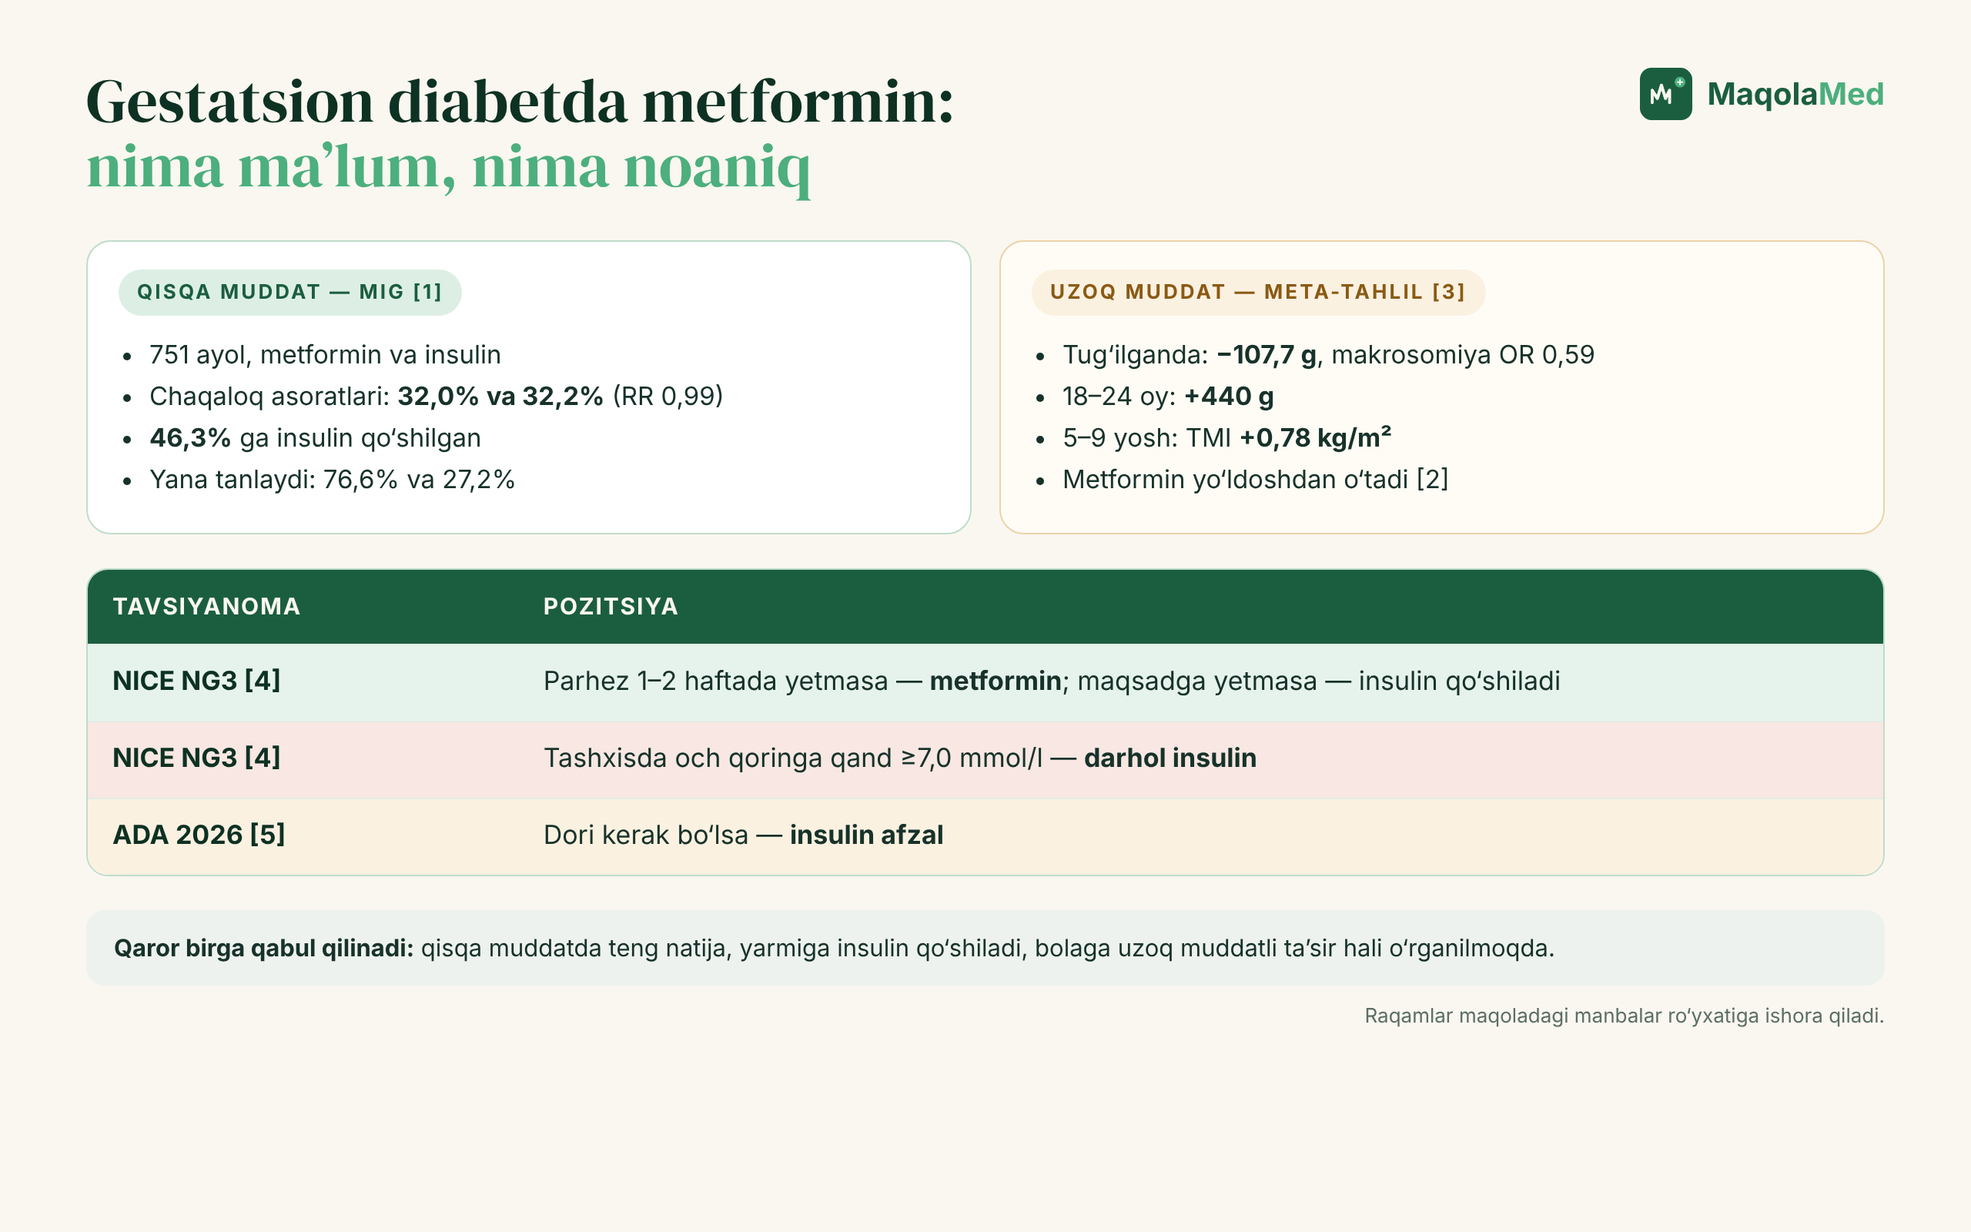
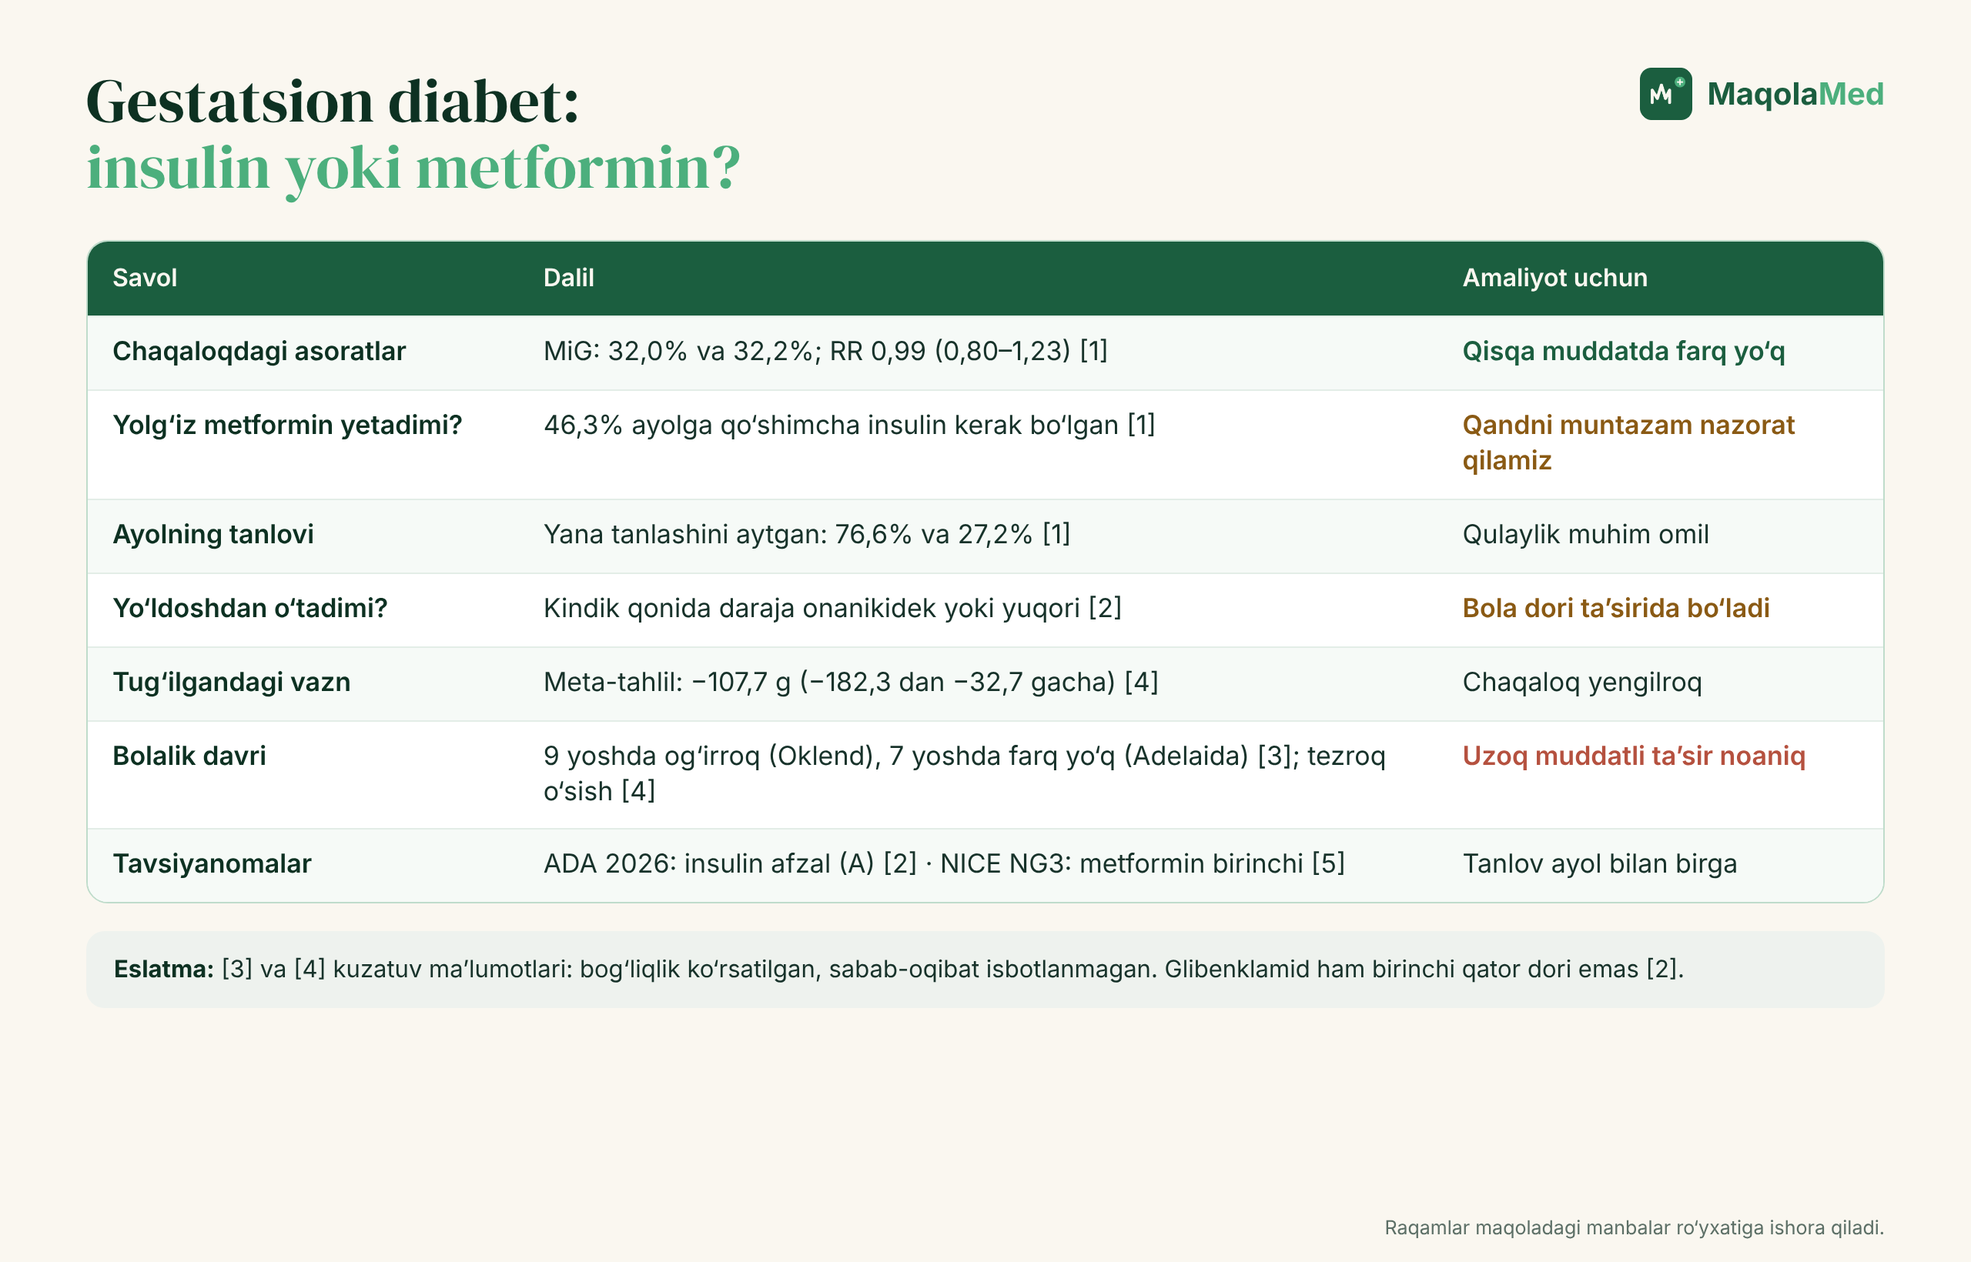
29-noyabr maqolasi qayta yozildi (v2, humanizer): gestatsion diabetda metformin — muqovalar, 1 rasm

diff --git a/_manba/2026-11-29/muqova-instagram-4x5.html b/_manba/2026-11-29/muqova-instagram-4x5.html
@@ -1,0 +1,84 @@
+<!doctype html>
+<html lang="uz">
+<head>
+<meta charset="utf-8"><base href="file:///home/claude/maqolamed-rasmlar/_shablon/">
+<style>
+@font-face{font-family:"DM Serif Display";src:url("fonts/dm-serif-display-latin-400-normal.woff2") format("woff2");}
+@font-face{font-family:"DM Serif Display";src:url("fonts/dm-serif-display-latin-ext-400-normal.woff2") format("woff2");unicode-range:U+0100-024F,U+1E00-1EFF;}
+:root{
+  --emerald:#1B5E3F; --deep:#0D3122; --cream:#FAF7F0; --mint:#7FC9A0; --green:#4CAF7D;
+}
+*{margin:0;padding:0;box-sizing:border-box}
+html,body{width:1280px;height:720px;overflow:hidden;background:var(--deep)}
+.cover{position:relative;width:1280px;height:720px;overflow:hidden;font-family:"Inter",sans-serif;color:var(--cream);
+  background:
+    radial-gradient(900px 600px at 78% 40%, rgba(76,175,125,.22), transparent 60%),
+    radial-gradient(700px 500px at 0% 100%, rgba(13,49,34,.9), transparent 70%),
+    linear-gradient(135deg,#123F2C 0%, #1B5E3F 55%, #164D34 100%);}
+.grid{position:absolute;inset:0;background-image:
+    linear-gradient(rgba(250,247,240,.035) 1px,transparent 1px),
+    linear-gradient(90deg,rgba(250,247,240,.035) 1px,transparent 1px);
+  background-size:40px 40px;}
+.ekg{position:absolute;left:0;top:300px;width:1280px;height:200px;opacity:.16}
+.left{position:absolute;left:64px;top:52px;width:690px}
+.brand{display:flex;align-items:center;gap:28px}
+.brand img{height:62px;display:block}
+.tag{display:flex;align-items:center;gap:14px;font-size:13px;letter-spacing:.32em;color:rgba(250,247,240,.72);font-weight:500}
+.tag i{width:4px;height:4px;border-radius:50%;background:var(--mint);display:inline-block}
+.tag .line{width:90px;height:1px;background:rgba(250,247,240,.35)}
+.kicker{margin-top:54px;display:inline-flex;align-items:center;gap:10px;font-size:15px;font-weight:600;letter-spacing:.14em;text-transform:uppercase;color:var(--mint)}
+.kicker span{display:inline-block;width:28px;height:2px;background:var(--mint)}
+h1{margin-top:16px;font-family:"DM Serif Display",serif;font-weight:400;font-size:78px;line-height:.98;letter-spacing:-.01em;color:var(--cream)}
+h1 em{font-style:normal;color:var(--mint)}
+.sub{margin-top:22px;font-size:21px;color:rgba(250,247,240,.82);font-weight:400}
+.points{position:absolute;left:64px;bottom:50px;display:flex;gap:0}
+.pt{width:172px;padding-right:18px;display:flex;flex-direction:column;align-items:flex-start;gap:12px}
+.pt + .pt{padding-left:22px;border-left:1px solid rgba(250,247,240,.18)}
+.ic{width:52px;height:52px;border-radius:50%;border:1.6px solid rgba(250,247,240,.75);display:grid;place-items:center}
+.ic svg{width:26px;height:26px;stroke:var(--cream);fill:none;stroke-width:1.7;stroke-linecap:round;stroke-linejoin:round}
+.pt p{font-size:15px;line-height:1.3;color:rgba(250,247,240,.92);font-weight:500}
+.card{position:absolute;right:56px;top:96px;width:400px;border-radius:22px;padding:28px 30px 26px;
+  background:linear-gradient(160deg,rgba(13,49,34,.82),rgba(13,49,34,.62));
+  border:1px solid rgba(127,201,160,.35);box-shadow:0 30px 60px rgba(0,0,0,.35)}
+.card .ch{display:flex;justify-content:space-between;align-items:center}
+.card .lbl{font-size:12px;letter-spacing:.24em;font-weight:600;color:var(--mint)}
+.card .pill{font-size:12px;font-weight:600;padding:5px 10px;border-radius:999px;background:rgba(127,201,160,.16);color:var(--mint)}
+.card h3{margin-top:14px;font-size:22px;font-weight:600}
+.card h3 small{display:block;margin-top:4px;font-size:14px;font-weight:400;color:rgba(250,247,240,.65)}
+.rows{margin-top:18px;border-top:1px solid rgba(250,247,240,.14)}
+.row{display:flex;justify-content:space-between;padding:9px 0;border-bottom:1px solid rgba(250,247,240,.10);font-size:16px}
+.row span:first-child{color:rgba(250,247,240,.68)}
+.row span:last-child{font-weight:600;font-variant-numeric:tabular-nums}
+.row .ok{color:var(--mint)}
+.quote{margin-top:18px;font-family:"DM Serif Display",serif;font-size:21px;line-height:1.25;color:var(--cream)}
+.ask{margin-top:16px;display:flex;align-items:center;justify-content:space-between;padding:13px 16px;border-radius:12px;background:var(--green);color:#0D3122;font-weight:700;font-size:17px}
+.ask svg{width:22px;height:22px;stroke:#0D3122;fill:none;stroke-width:2.2;stroke-linecap:round;stroke-linejoin:round}
+
+html,body{width:1080px;height:1350px}
+.cover{width:1080px;height:1350px}
+.ekg{top:525px;width:1080px}
+.left{left:72px;top:64px;width:940px}
+.brand img{height:72px}
+h1{font-size:96px;margin-top:18px}
+.kicker{margin-top:56px;font-size:17px}
+.sub{font-size:24px}
+.card{left:72px;right:72px;top:auto;bottom:250px;width:auto;padding:30px 34px}
+.rows{display:grid;grid-template-columns:1fr 1fr;column-gap:40px}
+.quote{font-size:24px}
+.points{left:72px;right:72px;bottom:60px}
+.pt{width:auto;flex:1}
+.pt p{font-size:17px}
+
+</style>
+</head>
+<body><div class="cover"><div class="grid"></div>
+<svg class="ekg" viewBox="0 0 1280 200" preserveAspectRatio="none"><polyline fill="none" stroke="#7FC9A0" stroke-width="3" stroke-linejoin="round" stroke-linecap="round" points="0,120 640,120 670,120 690,98 710,120 750,120 770,40 795,175 820,120 880,120 905,102 930,120 1280,120"/></svg>
+<div class="left"><div class="brand"><img src="logo_dark_bg.png" alt="MaqolaMed"></div>
+<div class="tag" style="margin-top:22px"><span>ILM</span><i></i><span>AMALIYOT</span><i></i><span>ODAM UCHUN</span><span class="line"></span></div>
+<div class="kicker"><span></span>Klinik savol · Akusherlik-ginekologiya</div>
+<h1>Gestatsion diabet:<br>metformin<br><em>xavfsizmi?</em></h1>
+<div class="sub">Tabletka yoki insulin: qisqa va uzoq muddatli dalillar.</div></div>
+<div class="points"><div class="pt"><div class="ic"><svg viewBox="0 0 24 24"><circle cx="12" cy="8" r="4"/><path d="M5 21c0-4 3-7 7-7s7 3 7 7"/></svg></div><p>Chaqaloq uchun xavfsizmi?</p></div><div class="pt"><div class="ic"><svg viewBox="0 0 24 24"><rect x="3" y="8.5" width="18" height="7" rx="3.5" transform="rotate(-40 12 12)"/><path d="M9.3 9.3l5.4 5.4"/></svg></div><p>Metformin yolg‘iz yetadimi?</p></div><div class="pt"><div class="ic"><svg viewBox="0 0 24 24"><path d="M4 20V4"/><path d="M4 20h16"/><path d="M8 16l4-5 3 3 5-7"/></svg></div><p>Bola keyin qanday o‘sadi?</p></div><div class="pt"><div class="ic"><svg viewBox="0 0 24 24"><circle cx="12" cy="12" r="9"/><path d="M9.5 9.5a2.5 2.5 0 1 1 3.5 2.3c-.7.3-1 .8-1 1.5v.7"/><path d="M12 17v.5"/></svg></div><p>Tavsiyanomalar nega har xil?</p></div></div>
+<div class="card"><div class="ch"><span class="lbl">DALIL</span><span class="pill">MiG va ADA 2026</span></div>
+<h3>Metformin va insulin<small>Gestatsion diabetda</small></h3><div class="rows"><div class="row"><span>Chaqaloq asoratlari</span><span class="ok">32,0% va 32,2%</span></div><div class="row"><span>Qo‘shimcha insulin kerak</span><span class="">46,3%</span></div><div class="row"><span>Yo‘ldoshdan o‘tadi</span><span class="">ha</span></div><div class="row"><span>Bolalikdagi vazn</span><span class="">noaniq</span></div><div class="row"><span>ADA 2026</span><span class="ok">insulin afzal</span></div><div class="row"><span>NICE NG3</span><span class="">metformin birinchi</span></div></div><div class="quote">«Ukol qilolmayman, tabletka yozing»</div><div class="ask">Nima deysiz?<svg viewBox="0 0 24 24"><path d="M5 12h14"/><path d="M13 6l6 6-6 6"/></svg></div></div>
+</div></body></html>

diff --git a/_manba/2026-11-29/muqova-16x9.html b/_manba/2026-11-29/muqova-16x9.html
@@ -1,0 +1,69 @@
+<!doctype html>
+<html lang="uz">
+<head>
+<meta charset="utf-8"><base href="file:///home/claude/maqolamed-rasmlar/_shablon/">
+<style>
+@font-face{font-family:"DM Serif Display";src:url("fonts/dm-serif-display-latin-400-normal.woff2") format("woff2");}
+@font-face{font-family:"DM Serif Display";src:url("fonts/dm-serif-display-latin-ext-400-normal.woff2") format("woff2");unicode-range:U+0100-024F,U+1E00-1EFF;}
+:root{
+  --emerald:#1B5E3F; --deep:#0D3122; --cream:#FAF7F0; --mint:#7FC9A0; --green:#4CAF7D;
+}
+*{margin:0;padding:0;box-sizing:border-box}
+html,body{width:1280px;height:720px;overflow:hidden;background:var(--deep)}
+.cover{position:relative;width:1280px;height:720px;overflow:hidden;font-family:"Inter",sans-serif;color:var(--cream);
+  background:
+    radial-gradient(900px 600px at 78% 40%, rgba(76,175,125,.22), transparent 60%),
+    radial-gradient(700px 500px at 0% 100%, rgba(13,49,34,.9), transparent 70%),
+    linear-gradient(135deg,#123F2C 0%, #1B5E3F 55%, #164D34 100%);}
+.grid{position:absolute;inset:0;background-image:
+    linear-gradient(rgba(250,247,240,.035) 1px,transparent 1px),
+    linear-gradient(90deg,rgba(250,247,240,.035) 1px,transparent 1px);
+  background-size:40px 40px;}
+.ekg{position:absolute;left:0;top:300px;width:1280px;height:200px;opacity:.16}
+.left{position:absolute;left:64px;top:52px;width:690px}
+.brand{display:flex;align-items:center;gap:28px}
+.brand img{height:62px;display:block}
+.tag{display:flex;align-items:center;gap:14px;font-size:13px;letter-spacing:.32em;color:rgba(250,247,240,.72);font-weight:500}
+.tag i{width:4px;height:4px;border-radius:50%;background:var(--mint);display:inline-block}
+.tag .line{width:90px;height:1px;background:rgba(250,247,240,.35)}
+.kicker{margin-top:54px;display:inline-flex;align-items:center;gap:10px;font-size:15px;font-weight:600;letter-spacing:.14em;text-transform:uppercase;color:var(--mint)}
+.kicker span{display:inline-block;width:28px;height:2px;background:var(--mint)}
+h1{margin-top:16px;font-family:"DM Serif Display",serif;font-weight:400;font-size:78px;line-height:.98;letter-spacing:-.01em;color:var(--cream)}
+h1 em{font-style:normal;color:var(--mint)}
+.sub{margin-top:22px;font-size:21px;color:rgba(250,247,240,.82);font-weight:400}
+.points{position:absolute;left:64px;bottom:50px;display:flex;gap:0}
+.pt{width:172px;padding-right:18px;display:flex;flex-direction:column;align-items:flex-start;gap:12px}
+.pt + .pt{padding-left:22px;border-left:1px solid rgba(250,247,240,.18)}
+.ic{width:52px;height:52px;border-radius:50%;border:1.6px solid rgba(250,247,240,.75);display:grid;place-items:center}
+.ic svg{width:26px;height:26px;stroke:var(--cream);fill:none;stroke-width:1.7;stroke-linecap:round;stroke-linejoin:round}
+.pt p{font-size:15px;line-height:1.3;color:rgba(250,247,240,.92);font-weight:500}
+.card{position:absolute;right:56px;top:96px;width:400px;border-radius:22px;padding:28px 30px 26px;
+  background:linear-gradient(160deg,rgba(13,49,34,.82),rgba(13,49,34,.62));
+  border:1px solid rgba(127,201,160,.35);box-shadow:0 30px 60px rgba(0,0,0,.35)}
+.card .ch{display:flex;justify-content:space-between;align-items:center}
+.card .lbl{font-size:12px;letter-spacing:.24em;font-weight:600;color:var(--mint)}
+.card .pill{font-size:12px;font-weight:600;padding:5px 10px;border-radius:999px;background:rgba(127,201,160,.16);color:var(--mint)}
+.card h3{margin-top:14px;font-size:22px;font-weight:600}
+.card h3 small{display:block;margin-top:4px;font-size:14px;font-weight:400;color:rgba(250,247,240,.65)}
+.rows{margin-top:18px;border-top:1px solid rgba(250,247,240,.14)}
+.row{display:flex;justify-content:space-between;padding:9px 0;border-bottom:1px solid rgba(250,247,240,.10);font-size:16px}
+.row span:first-child{color:rgba(250,247,240,.68)}
+.row span:last-child{font-weight:600;font-variant-numeric:tabular-nums}
+.row .ok{color:var(--mint)}
+.quote{margin-top:18px;font-family:"DM Serif Display",serif;font-size:21px;line-height:1.25;color:var(--cream)}
+.ask{margin-top:16px;display:flex;align-items:center;justify-content:space-between;padding:13px 16px;border-radius:12px;background:var(--green);color:#0D3122;font-weight:700;font-size:17px}
+.ask svg{width:22px;height:22px;stroke:#0D3122;fill:none;stroke-width:2.2;stroke-linecap:round;stroke-linejoin:round}
+
+</style>
+</head>
+<body><div class="cover"><div class="grid"></div>
+<svg class="ekg" viewBox="0 0 1280 200" preserveAspectRatio="none"><polyline fill="none" stroke="#7FC9A0" stroke-width="3" stroke-linejoin="round" stroke-linecap="round" points="0,120 640,120 670,120 690,98 710,120 750,120 770,40 795,175 820,120 880,120 905,102 930,120 1280,120"/></svg>
+<div class="left"><div class="brand"><img src="logo_dark_bg.png" alt="MaqolaMed"></div>
+<div class="tag" style="margin-top:22px"><span>ILM</span><i></i><span>AMALIYOT</span><i></i><span>ODAM UCHUN</span><span class="line"></span></div>
+<div class="kicker"><span></span>Klinik savol · Akusherlik-ginekologiya</div>
+<h1>Gestatsion diabet:<br>metformin<br><em>xavfsizmi?</em></h1>
+<div class="sub">Tabletka yoki insulin: qisqa va uzoq muddatli dalillar.</div></div>
+<div class="points"><div class="pt"><div class="ic"><svg viewBox="0 0 24 24"><circle cx="12" cy="8" r="4"/><path d="M5 21c0-4 3-7 7-7s7 3 7 7"/></svg></div><p>Chaqaloq uchun xavfsizmi?</p></div><div class="pt"><div class="ic"><svg viewBox="0 0 24 24"><rect x="3" y="8.5" width="18" height="7" rx="3.5" transform="rotate(-40 12 12)"/><path d="M9.3 9.3l5.4 5.4"/></svg></div><p>Metformin yolg‘iz yetadimi?</p></div><div class="pt"><div class="ic"><svg viewBox="0 0 24 24"><path d="M4 20V4"/><path d="M4 20h16"/><path d="M8 16l4-5 3 3 5-7"/></svg></div><p>Bola keyin qanday o‘sadi?</p></div><div class="pt"><div class="ic"><svg viewBox="0 0 24 24"><circle cx="12" cy="12" r="9"/><path d="M9.5 9.5a2.5 2.5 0 1 1 3.5 2.3c-.7.3-1 .8-1 1.5v.7"/><path d="M12 17v.5"/></svg></div><p>Tavsiyanomalar nega har xil?</p></div></div>
+<div class="card"><div class="ch"><span class="lbl">DALIL</span><span class="pill">MiG va ADA 2026</span></div>
+<h3>Metformin va insulin<small>Gestatsion diabetda</small></h3><div class="rows"><div class="row"><span>Chaqaloq asoratlari</span><span class="ok">32,0% va 32,2%</span></div><div class="row"><span>Qo‘shimcha insulin kerak</span><span class="">46,3%</span></div><div class="row"><span>Yo‘ldoshdan o‘tadi</span><span class="">ha</span></div><div class="row"><span>Bolalikdagi vazn</span><span class="">noaniq</span></div><div class="row"><span>ADA 2026</span><span class="ok">insulin afzal</span></div><div class="row"><span>NICE NG3</span><span class="">metformin birinchi</span></div></div><div class="quote">«Ukol qilolmayman, tabletka yozing»</div><div class="ask">Nima deysiz?<svg viewBox="0 0 24 24"><path d="M5 12h14"/><path d="M13 6l6 6-6 6"/></svg></div></div>
+</div></body></html>

diff --git a/_manba/2026-11-29/1-rasm.html b/_manba/2026-11-29/1-rasm.html
@@ -1,0 +1,48 @@
+<!doctype html><html lang="uz"><head><meta charset="utf-8"><base href="file:///home/claude/maqolamed-rasmlar/_shablon/"><style>
+@font-face{font-family:"DM Serif Display";src:url("fonts/dm-serif-display-latin-400-normal.woff2") format("woff2");}
+@font-face{font-family:"DM Serif Display";src:url("fonts/dm-serif-display-latin-ext-400-normal.woff2") format("woff2");unicode-range:U+0100-024F,U+1E00-1EFF;}
+:root{--emerald:#1B5E3F;--deep:#0D3122;--cream:#FAF7F0;--mint:#7FC9A0;--green:#4CAF7D;--ink:#17322A;--muted:#5C6F66;--amber:#C98A2E;--amberbg:#FBF1E1;--red:#B5513F;--redbg:#F8E7E2}
+*{margin:0;padding:0;box-sizing:border-box}
+html,body{width:1280px;height:820px;background:var(--cream);overflow:hidden}
+.fig{position:relative;width:1280px;height:820px;padding:44px 56px;font-family:"Inter",sans-serif;color:var(--ink)}
+.top{display:flex;justify-content:space-between;align-items:flex-start;margin-bottom:26px}
+h1{font-family:"DM Serif Display",serif;font-weight:400;font-size:40px;line-height:1.08;color:var(--deep)}
+h1 em{font-style:normal;color:var(--green)}
+.brand{display:flex;align-items:center;gap:10px;font-weight:700;font-size:20px;color:var(--emerald);white-space:nowrap}
+.brand img{height:34px}.brand b{color:var(--green);font-weight:700}
+table{width:100%;border-collapse:separate;border-spacing:0;font-size:17px;line-height:1.35;background:#fff;border-radius:14px;overflow:hidden;border:1.5px solid #BFDCCB}
+th{background:var(--emerald);color:var(--cream);text-align:left;padding:13px 16px;font-size:16px;font-weight:600}
+td{padding:12px 16px;border-top:1px solid #E3EDE7;vertical-align:top}
+td:first-child{font-weight:600;color:var(--deep);width:24%}
+tr:nth-child(even) td{background:#F6FAF7}
+.good{color:var(--emerald);font-weight:600}.bad{color:var(--red);font-weight:600}.mid{color:#8A5A14;font-weight:600}
+.row3{display:flex;gap:20px}
+.box{flex:1;border-radius:14px;padding:16px 18px;font-size:16px;line-height:1.42;background:#fff;border:1.5px solid #BFDCCB}
+.box b.t{display:block;font-size:18px;margin-bottom:6px;color:var(--deep)}
+.box.g{border-color:#BFDCCB}.box.a{border-color:#EBD3A9;background:#FFFDF8}.box.r{border-color:#E8C3BA;background:#FFFBFA}
+.box.dark{background:var(--emerald);color:var(--cream);border:none}.box.dark b.t{color:var(--cream)}
+.step{display:flex;gap:16px;align-items:flex-start;background:#fff;border:1.5px solid #BFDCCB;border-radius:14px;padding:14px 18px;margin-bottom:12px;font-size:16.5px;line-height:1.42}
+.num{flex:none;width:40px;height:40px;border-radius:50%;background:var(--emerald);color:var(--cream);display:grid;place-items:center;font-weight:700;font-size:19px}
+.step b.t{display:block;font-size:18px;color:var(--deep);margin-bottom:3px}
+.tag{display:inline-block;font-size:12.5px;font-weight:700;letter-spacing:.1em;text-transform:uppercase;padding:5px 11px;border-radius:999px;margin-bottom:10px}
+.tg{background:#DDEFE5;color:var(--emerald)}.ta{background:var(--amberbg);color:#8A5A14}.tr{background:var(--redbg);color:var(--red)}
+.note{margin-top:18px;padding:14px 18px;border-radius:12px;background:#EEF2EE;font-size:15.5px;line-height:1.42}
+.note b{color:var(--deep)}
+.src{position:absolute;right:56px;bottom:14px;font-size:12.5px;color:var(--muted)}
+ul.l{margin:6px 0 0 18px}ul.l li{margin:3px 0}
+</style></head><body><div class="fig">
+<div class="top"><h1>Gestatsion diabet:<br><em>insulin yoki metformin?</em></h1><div class="brand"><img src="icon.png" alt=""><span>Maqola<b>Med</b></span></div></div>
+
+<table>
+<tr><th>Savol</th><th>Dalil</th><th>Amaliyot uchun</th></tr>
+<tr><td>Chaqaloqdagi asoratlar</td><td>MiG: 32,0% va 32,2%; RR 0,99 (0,80–1,23) [1]</td><td class="good">Qisqa muddatda farq yo‘q</td></tr>
+<tr><td>Yolg‘iz metformin yetadimi?</td><td>46,3% ayolga qo‘shimcha insulin kerak bo‘lgan [1]</td><td class="mid">Qandni muntazam nazorat qilamiz</td></tr>
+<tr><td>Ayolning tanlovi</td><td>Yana tanlashini aytgan: 76,6% va 27,2% [1]</td><td>Qulaylik muhim omil</td></tr>
+<tr><td>Yo‘ldoshdan o‘tadimi?</td><td>Kindik qonida daraja onanikidek yoki yuqori [2]</td><td class="mid">Bola dori ta’sirida bo‘ladi</td></tr>
+<tr><td>Tug‘ilgandagi vazn</td><td>Meta-tahlil: −107,7 g (−182,3 dan −32,7 gacha) [4]</td><td>Chaqaloq yengilroq</td></tr>
+<tr><td>Bolalik davri</td><td>9 yoshda og‘irroq (Oklend), 7 yoshda farq yo‘q (Adelaida) [3]; tezroq o‘sish [4]</td><td class="bad">Uzoq muddatli ta’sir noaniq</td></tr>
+<tr><td>Tavsiyanomalar</td><td>ADA 2026: insulin afzal (A) [2] · NICE NG3: metformin birinchi [5]</td><td>Tanlov ayol bilan birga</td></tr>
+</table>
+<div class="note"><b>Eslatma:</b> [3] va [4] kuzatuv ma’lumotlari: bog‘liqlik ko‘rsatilgan, sabab-oqibat isbotlanmagan. Glibenklamid ham birinchi qator dori emas [2].</div>
+
+<div class="src">Raqamlar maqoladagi manbalar ro‘yxatiga ishora qiladi.</div></div></body></html>
